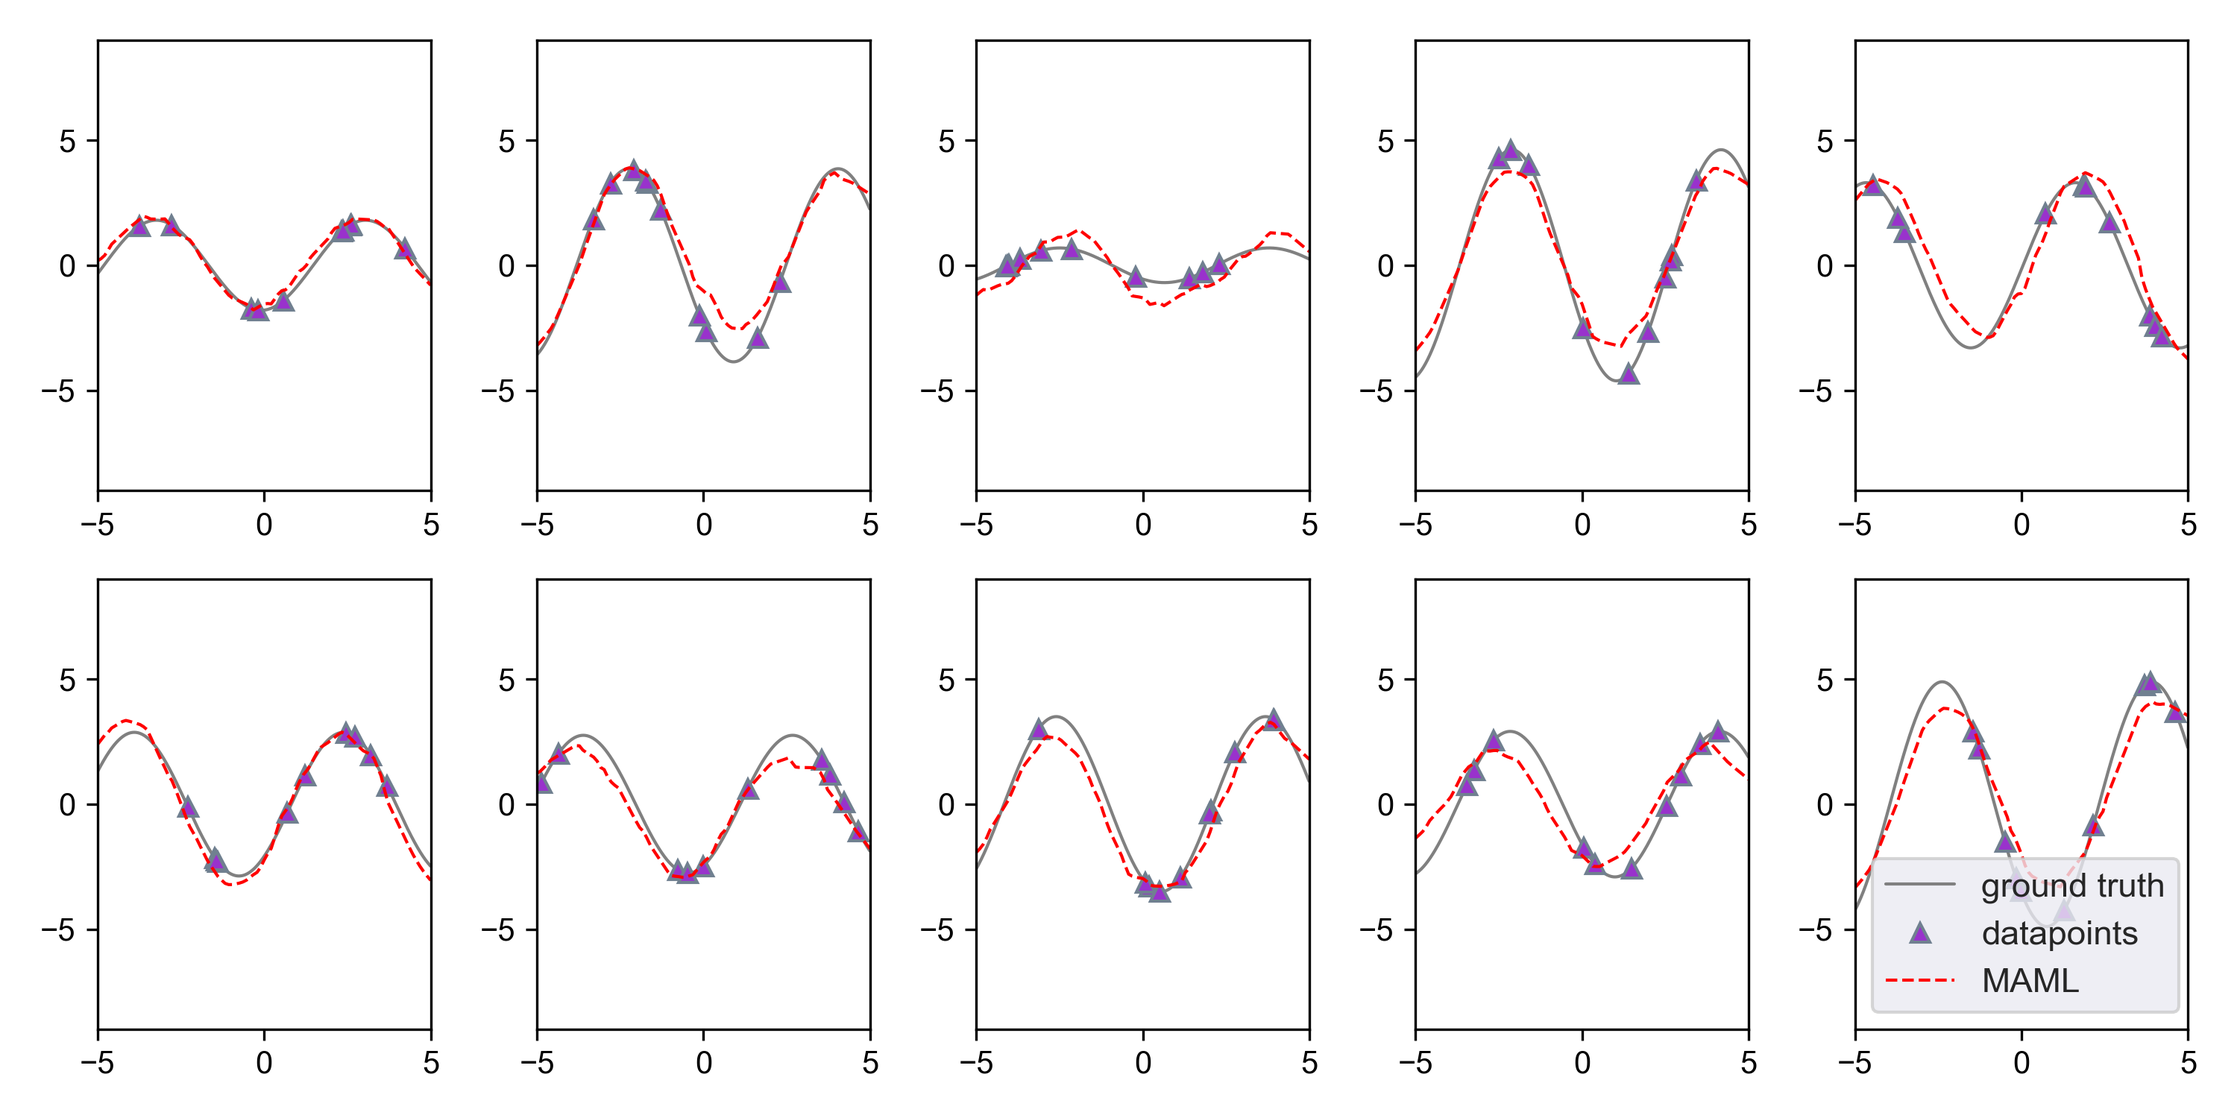
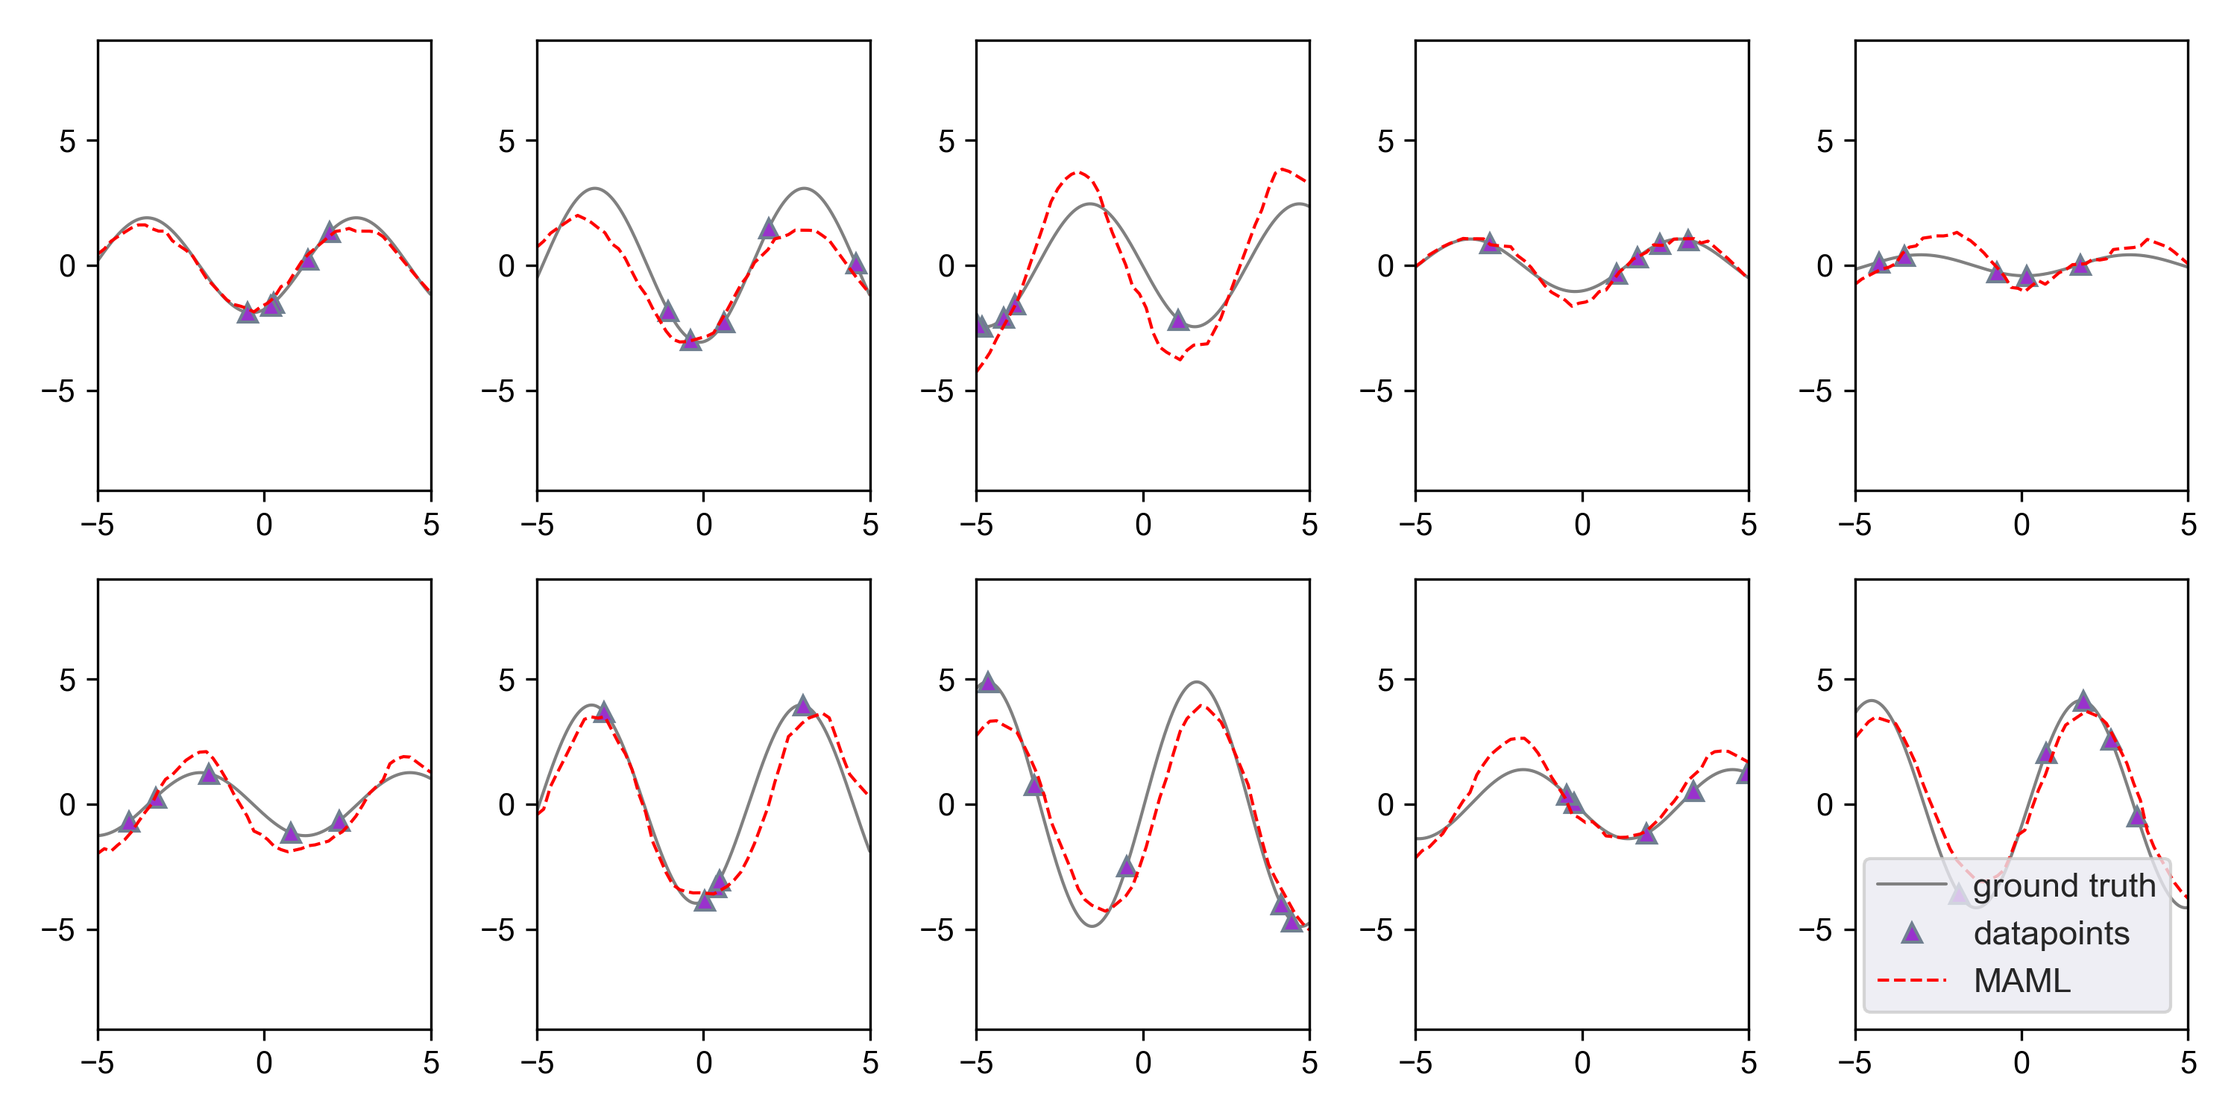
fixed inner loop repeats for main.py, rmeoved from prob_main.py because I can't figure out how it works

diff --git a/prob_maml/prob_maml.py b/prob_maml/prob_maml.py
@@ -1,5 +1,6 @@
 
 from collections import OrderedDict
+import copy
 
 import torch
 import torch.nn.functional as F
@@ -16,7 +17,7 @@ class ProbMAML():
         self.regressor_variances = regressor_variances
         self.optimizer = optimizer
         
-    def _inner_loop_train(self, x_train, y_train, x_test, y_test, alpha=0.001, gamma_q=0.1, noise_q=0.1):
+    def _inner_loop_train(self, x_train, y_train, x_test, y_test, alpha=0.001, init_params=None, gamma_q=0.01, noise_q=0.01):
         '''
         Perform a single inner loop forward pass and backward pass (manual parameter update) of Model-Agnostic Meta Learning (MAML).  
 
@@ -35,6 +36,10 @@ class ProbMAML():
 
         # Forward pass using support sets
         with torch.enable_grad():
+            # How tf does an inner gradient step work with this??
+            # if init_params is None:
+            #     init_params =  OrderedDict(self.regressor.named_parameters())
+            # predicted = self.regressor(x_test, init_params)
             predicted = self.regressor(x_test, OrderedDict(self.regressor.named_parameters()))
             loss = F.mse_loss(predicted, y_test)
             self.optimizer.zero_grad()
@@ -42,7 +47,7 @@ class ProbMAML():
 
             # mean_updated_params = self.regressor.state_dict()
 
-            # # # Manual update
+            # # Manual update
             # for (name, param) in self.regressor.named_parameters():
             #     grad = param.grad
             #     if grad is None:
@@ -54,17 +59,18 @@ class ProbMAML():
             # sample_params = {}
             # q_means = {}
             # q_stds = {}
-            # for name, param in mean_updated_params.items():
+            # for name, dist_mean in mean_updated_params.items():
             #     dist_std = np.sqrt(noise_q) * torch.ones(param.shape)
-            #     q_means[name] = param
+            #     q_means[name] = dist_mean
             #     q_stds[name] = dist_std
-            #     sample_params[name] = Normal(loc=param, scale=dist_std).sample().clone().detach().requires_grad_(True)
+            #     sample_params[name] = Normal(loc=dist_mean, scale=dist_std).sample().requires_grad_(True)
             
 
             # Sample weights from q_dist 
             sample_params = {}
             q_means = {}
             q_stds = {}
+
             for name, param in self.regressor.named_parameters():
                 dist_mean = param - (gamma_q * param.grad)
                 dist_std = np.sqrt(noise_q) * torch.ones(dist_mean.shape)
@@ -78,7 +84,8 @@ class ProbMAML():
             self.optimizer.zero_grad()
             sample_loss.backward(retain_graph=True)
 
-            updated_params = self.regressor.state_dict()
+            # updated_params = self.regressor.state_dict()
+            updated_params = copy.deepcopy(sample_params)
 
             # Manual update
             for (name, param) in sample_params.items():
@@ -91,7 +98,7 @@ class ProbMAML():
 
         return updated_params, q_means, q_stds
 
-    def outer_loop_train(self, x_trains, y_trains, x_tests, y_tests, device, alpha=0.001, num_inner_updates=5, gamma_p=0.1):
+    def outer_loop_train(self, x_trains, y_trains, x_tests, y_tests, device, alpha=0.001, num_inner_updates=5, gamma_p=0.01):
         '''
         Perform single outer loop forward and backward pass of Model-Agnostic Meta Learning Algorithm (MAML).
 
@@ -126,8 +133,9 @@ class ProbMAML():
 
         # Perform inner loop training per task using support sets
         for task in range(x_trains.size(0)):
-            for update_idx in range(num_inner_updates):
-                updated_params, q_means, q_stds = self._inner_loop_train(x_trains[task], y_trains[task], x_tests[task], y_tests[task], alpha)
+            updated_params = OrderedDict(self.regressor.named_parameters())
+            for _ in range(num_inner_updates):
+                updated_params, q_means, q_stds = self._inner_loop_train(x_trains[task], y_trains[task], x_tests[task], y_tests[task], alpha, updated_params)
 
             # Collect predictions for query sets, using model prior params for specific task
             prior_predictions = self.regressor(x_tests[task], OrderedDict(self.regressor.named_parameters()))

diff --git a/prob_maml/prob_main.py b/prob_maml/prob_main.py
@@ -27,6 +27,8 @@ Usage Instructions:
 def train(datasource='sinusoid_linear', output_directory="prob_maml/results"):
     meta_batch_size = 25
     update_batch_size = 5 # 10 for 2dclass
+    num_samples_per_class = 55
+
     pretrain_iterations = 0
     metatrain_iterations = 70000 # 70000 in paper
     stochastic = True
@@ -37,12 +39,11 @@ def train(datasource='sinusoid_linear', output_directory="prob_maml/results"):
     model = ProbModelMLPSinusoid(bias=bias).to(device)
     var_model = ProbModelMLPSinusoid(bias=bias, init_value=np.log(0.02 ** 2))
     optimizer = torch.optim.Adam(list(model.parameters()) + list(var_model.parameters()), lr=.01)
-
     meta_model = ProbMAML(model, optimizer, var_model)
     alpha=0.001
     num_inner_updates = 5
 
-    data_generator = DataGenerator(update_batch_size + max(50, update_batch_size), meta_batch_size, datasource=datasource, update_batch_size=update_batch_size, num_classes=num_classes)
+    data_generator = DataGenerator(num_samples_per_class, meta_batch_size, datasource=datasource, num_classes=num_classes)
     num_classes = data_generator.num_classes
 
     losses = []
@@ -52,7 +53,6 @@ def train(datasource='sinusoid_linear', output_directory="prob_maml/results"):
 
     for idx in range(pretrain_iterations + metatrain_iterations):
         batch_x, batch_y, amp, phase = data_generator.generate()
-
         # A for support, B for query
 
         inputa = torch.tensor(batch_x[:, :num_classes * update_batch_size, :].astype(np.float32)).to(device) # shape: meta_batch_size, update_batch_size, 
@@ -86,6 +86,8 @@ def test(datasource='sinusoid_linear', output_directory='prob_maml/results'):
     bias = 0
     num_test_curves = 10
     num_samples_per_class = 105
+    num_samples_per_class = 55
+    num_inner_updates = 5
 
     update_batch_size = 5 # 10 for 2dclass
     num_classes = 1 # 2 for 2dclass
@@ -94,10 +96,10 @@ def test(datasource='sinusoid_linear', output_directory='prob_maml/results'):
 
     trained_regressor = ProbModelMLPSinusoid(bias=bias).to(device)
     trained_regressor.load_state_dict(torch.load(os.path.join(output_directory, f"{datasource}_model.pt")))
-    optimizer = torch.optim.Adam(trained_regressor.parameters(), lr=.01)
+    optimizer = torch.optim.Adam(trained_regressor.parameters(), lr=0.0)
     trained_meta_model = ProbMAML(trained_regressor, optimizer, None)
 
-    data_generator = DataGenerator(num_samples_per_class, num_test_curves, datasource=datasource, update_batch_size=update_batch_size, num_classes=num_classes)
+    data_generator = DataGenerator(num_samples_per_class, num_test_curves, datasource=datasource, num_classes=num_classes)
     batch_x, batch_y, amp, phase = data_generator.generate(train=True, input_idx=update_batch_size)
 
     inputa = torch.tensor(batch_x[:, :update_batch_size, :].astype(np.float32)).to(device)
@@ -107,15 +109,18 @@ def test(datasource='sinusoid_linear', output_directory='prob_maml/results'):
 
     fig, axes = plt.subplots(2, 5, figsize=(10, 5))
     sns.set()
+
     for idx, ax in enumerate(axes.flatten()):
         test_model = copy.deepcopy(trained_meta_model)
         updated_params = test_model._inner_loop_test(inputa[idx], labela[idx], alpha)
+
         with torch.no_grad():
             prior_query_predictions = test_model.regressor(inputb[idx], OrderedDict(test_model.regressor.named_parameters()))
             prior_query_loss = F.mse_loss(prior_query_predictions, labelb[idx])
 
             updated_query_predictions = test_model.regressor(inputb[idx], updated_params)
             updated_query_loss = F.mse_loss(updated_query_predictions, labelb[idx])
+            print(f"Prior loss: {prior_query_loss} | Adapted loss: {updated_query_loss}")
 
         xs = np.arange(-5.0, 5.0, 0.01)
         if amp[idx] > 50:
@@ -135,4 +140,4 @@ def test(datasource='sinusoid_linear', output_directory='prob_maml/results'):
     plt.legend()
     plt.savefig(os.path.join(output_directory, f"{datasource}_test.png"), dpi=300)
 
-train(datasource='sinusoid_linear', output_directory='prob_maml/results/prob_modelbias/')
+train(datasource='sinusoid_linear', output_directory='prob_maml/results/prob_testing/')

diff --git a/prob_maml/main.py b/prob_maml/main.py
@@ -27,6 +27,8 @@ Usage Instructions:
 def train(datasource='sinusoid_linear', output_directory="prob_maml/results"):
     meta_batch_size = 25
     update_batch_size = 5 # 10 for 2dclass
+    num_samples_per_class = 55
+
     pretrain_iterations = 0
     metatrain_iterations = 30000 # 70000 in paper
     stochastic = True
@@ -40,7 +42,7 @@ def train(datasource='sinusoid_linear', output_directory="prob_maml/results"):
     alpha=0.001
     num_inner_updates = 5
 
-    data_generator = DataGenerator(update_batch_size + max(50, update_batch_size), meta_batch_size, datasource=datasource, update_batch_size=update_batch_size, num_classes=num_classes)
+    data_generator = DataGenerator(num_samples_per_class, meta_batch_size, datasource=datasource, num_classes=num_classes)
     num_classes = data_generator.num_classes
 
     losses = []
@@ -50,7 +52,6 @@ def train(datasource='sinusoid_linear', output_directory="prob_maml/results"):
 
     for idx in range(pretrain_iterations + metatrain_iterations):
         batch_x, batch_y, amp, phase = data_generator.generate()
-
         # A for support, B for query
 
         inputa = torch.tensor(batch_x[:, :num_classes * update_batch_size, :].astype(np.float32)).to(device) # shape: meta_batch_size, update_batch_size, 
@@ -82,19 +83,20 @@ def test(datasource='sinusoid_linear', output_directory='prob_maml/results'):
     # meta_batch_size = 25
     bias = 0
     num_test_curves = 10
-    num_samples_per_class = 105
+    num_samples_per_class = 55
+    num_inner_updates = 5
 
-    update_batch_size = 10 # 10 for 2dclass
+    update_batch_size = 5 # 10 for 2dclass
     num_classes = 1 # 2 for 2dclass
     alpha=0.001
     device = torch.device("cuda:0" if torch.cuda.is_available() else "cpu")
 
     trained_regressor = ModelMLPSinusoid(bias=bias).to(device)
     trained_regressor.load_state_dict(torch.load(os.path.join(output_directory, f"{datasource}_model.pt")))
-    optimizer = torch.optim.Adam(trained_regressor.parameters(), lr=.01)
+    optimizer = torch.optim.Adam(trained_regressor.parameters(), lr=0.0)
     trained_meta_model = MAML_trainer(trained_regressor, optimizer)
 
-    data_generator = DataGenerator(num_samples_per_class, num_test_curves, datasource=datasource, update_batch_size=update_batch_size, num_classes=num_classes)
+    data_generator = DataGenerator(num_samples_per_class, num_test_curves, datasource=datasource, num_classes=num_classes)
     batch_x, batch_y, amp, phase = data_generator.generate(train=True, input_idx=update_batch_size)
 
     inputa = torch.tensor(batch_x[:, :update_batch_size, :].astype(np.float32)).to(device)
@@ -102,17 +104,21 @@ def test(datasource='sinusoid_linear', output_directory='prob_maml/results'):
     labela = torch.tensor(batch_y[:, :update_batch_size, :].astype(np.float32)).to(device)
     labelb = torch.tensor(batch_y[:,update_batch_size:, :].astype(np.float32)).to(device)
 
+
     fig, axes = plt.subplots(2, 5, figsize=(10, 5))
     sns.set()
+
     for idx, ax in enumerate(axes.flatten()):
         test_model = copy.deepcopy(trained_meta_model)
         updated_params = test_model._inner_loop_train(inputa[idx], labela[idx], alpha)
+
         with torch.no_grad():
             prior_query_predictions = test_model.regressor(inputb[idx], OrderedDict(test_model.regressor.named_parameters()))
             prior_query_loss = F.mse_loss(prior_query_predictions, labelb[idx])
 
             updated_query_predictions = test_model.regressor(inputb[idx], updated_params)
             updated_query_loss = F.mse_loss(updated_query_predictions, labelb[idx])
+            print(f"Prior loss: {prior_query_loss} | Adapted loss: {updated_query_loss}")
 
         xs = np.arange(-5.0, 5.0, 0.01)
         if amp[idx] > 50:
@@ -132,4 +138,4 @@ def test(datasource='sinusoid_linear', output_directory='prob_maml/results'):
     plt.legend()
     plt.savefig(os.path.join(output_directory, f"{datasource}_test.png"), dpi=300)
 
-test(datasource='sinusoid_linear', output_directory='prob_maml/results/modelbias/')
+train(datasource='sinusoid_linear', output_directory='prob_maml/results/testing/')

diff --git a/prob_maml/data_generator.py b/prob_maml/data_generator.py
@@ -9,7 +9,7 @@ class DataGenerator(object):
     Data Generator capable of generating batches of sinusoid or Omniglot data.
     A "class" is considered a class of omniglot digits or a particular sinusoid function.
     """
-    def __init__(self, num_samples_per_class, batch_size, datasource, update_batch_size, num_classes=1, config={}):
+    def __init__(self, num_samples_per_class, batch_size, datasource, num_classes=1, config={}):
         """
         Args:
             num_samples_per_class: num samples to generate per class in one batch
@@ -18,7 +18,6 @@ class DataGenerator(object):
         self.batch_size = batch_size
         self.num_samples_per_class = num_samples_per_class
         self.num_classes = num_classes  # by default 1 (only relevant for classification problems)
-        self.update_batch_size = update_batch_size
 
         if datasource == 'sinusoid':
             self.generate = self.generate_sinusoid_batch
@@ -114,25 +113,25 @@ class DataGenerator(object):
                     outputs[task,:,0] = (inputs[task,:,0] * slope[task] + bias[task]) < inputs[task,:,1]
         return inputs, outputs, slope, bias
 
-    def generate_2d_circle_classification(self, train=True, input_idx=None):
-        centers = np.random.uniform(self.center_range[0], self.center_range[1], [self.batch_size,2])
-        diameters = np.random.uniform(self.diameter_range[0], self.diameter_range[1], [self.batch_size])
-        inputs = np.zeros([self.batch_size, self.num_samples_per_class, self.dim_input])
-        outputs = np.zeros([self.batch_size, self.num_samples_per_class, self.dim_output], dtype=np.int32)
-        num_inner_obj = self.update_batch_size # all positive
-        num_outer_obj = self.num_samples_per_class - num_inner_obj # both neg and pos
-        inputs[:,num_inner_obj:, :] = np.random.uniform(self.feat_range[0], self.feat_range[1], [self.batch_size, num_outer_obj, self.dim_input])
-        for task in range(self.batch_size):
-            center, diameter = centers[task], diameters[task]
-            for i in range(num_inner_obj):
-                r = np.random.uniform(0, diameter/2)
-                theta = np.random.uniform(0,2*np.pi)
-                inputs[task,i,0] = r*np.cos(theta) + center[0]
-                inputs[task,i,1] = r*np.sin(theta) + center[1]
-            outputs[task, :num_inner_obj, :] = 1
-            for i in range(num_outer_obj):
-                idx = num_inner_obj + i
-                outputs[task,idx,0] = np.sum((inputs[task,idx,:] - center)**2) < (diameter/2.0)**2
+    # def generate_2d_circle_classification(self, train=True, input_idx=None):
+    #     centers = np.random.uniform(self.center_range[0], self.center_range[1], [self.batch_size,2])
+    #     diameters = np.random.uniform(self.diameter_range[0], self.diameter_range[1], [self.batch_size])
+    #     inputs = np.zeros([self.batch_size, self.num_samples_per_class, self.dim_input])
+    #     outputs = np.zeros([self.batch_size, self.num_samples_per_class, self.dim_output], dtype=np.int32)
+    #     num_inner_obj = self.update_batch_size # all positive
+    #     num_outer_obj = self.num_samples_per_class - num_inner_obj # both neg and pos
+    #     inputs[:,num_inner_obj:, :] = np.random.uniform(self.feat_range[0], self.feat_range[1], [self.batch_size, num_outer_obj, self.dim_input])
+    #     for task in range(self.batch_size):
+    #         center, diameter = centers[task], diameters[task]
+    #         for i in range(num_inner_obj):
+    #             r = np.random.uniform(0, diameter/2)
+    #             theta = np.random.uniform(0,2*np.pi)
+    #             inputs[task,i,0] = r*np.cos(theta) + center[0]
+    #             inputs[task,i,1] = r*np.sin(theta) + center[1]
+    #         outputs[task, :num_inner_obj, :] = 1
+    #         for i in range(num_outer_obj):
+    #             idx = num_inner_obj + i
+    #             outputs[task,idx,0] = np.sum((inputs[task,idx,:] - center)**2) < (diameter/2.0)**2
 
         #if input_idx is not None:
         #    lingrid = np.linspace(self.feat_range[0], self.feat_range[1],

diff --git a/prob_maml/maml.py b/prob_maml/maml.py
@@ -1,8 +1,11 @@
+import copy
+from collections import OrderedDict
+
 import torch
 import torch.nn.functional as F
 from model import *
 import torch.nn as nn
-from collections import OrderedDict
+
 
 
 class MAML_trainer():
@@ -10,7 +13,7 @@ class MAML_trainer():
         self.regressor = regressor
         self.optimizer = optimizer
         
-    def _inner_loop_train(self, x_support, y_support, alpha):
+    def _inner_loop_train(self, x_support, y_support, alpha, init_params=None):
         '''
         Perform a single inner loop forward pass and backward pass (manual parameter update) of Model-Agnostic Meta Learning (MAML).  
 
@@ -29,7 +32,10 @@ class MAML_trainer():
 
         # Forward pass using support sets
         with torch.enable_grad():
-            predicted = self.regressor(x_support, OrderedDict(self.regressor.named_parameters()))
+            if init_params is None:
+                init_params =  OrderedDict(self.regressor.named_parameters())
+            predicted = self.regressor(x_support, init_params)
+        
             loss = F.mse_loss(predicted, y_support)
             self.optimizer.zero_grad()
             loss.backward(retain_graph=True)
@@ -37,7 +43,7 @@ class MAML_trainer():
             updated_params = self.regressor.state_dict()
 
             # Manual update
-            for (name, param) in self.regressor.named_parameters():
+            for (name, param) in init_params.items():
                 grad = param.grad
                 if grad is None:
                     new_param = param
@@ -82,9 +88,9 @@ class MAML_trainer():
 
         # Perform inner loop training per task using support sets
         for task in range(x_supports.size(0)):
+            updated_params = OrderedDict(self.regressor.named_parameters())
             for update_idx in range(num_inner_updates):
-                updated_params = self._inner_loop_train(x_supports[task], y_supports[task], alpha)
-            
+                updated_params = self._inner_loop_train(x_supports[task], y_supports[task], alpha, updated_params)
             # Collect predictions for query sets, using model prior params for specific task
             prior_predictions = self.regressor(x_queries[task], OrderedDict(self.regressor.named_parameters()))
 
